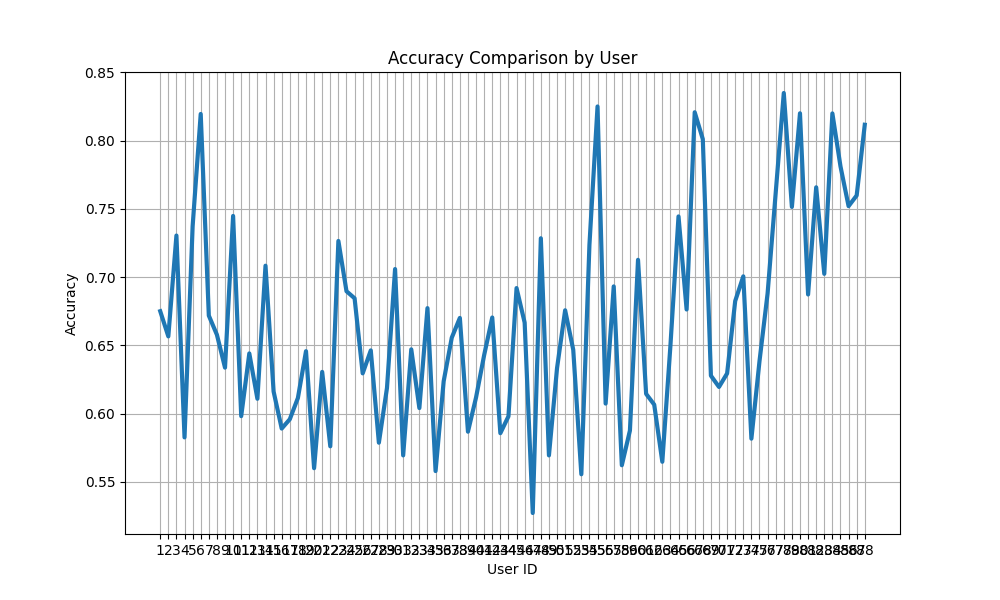
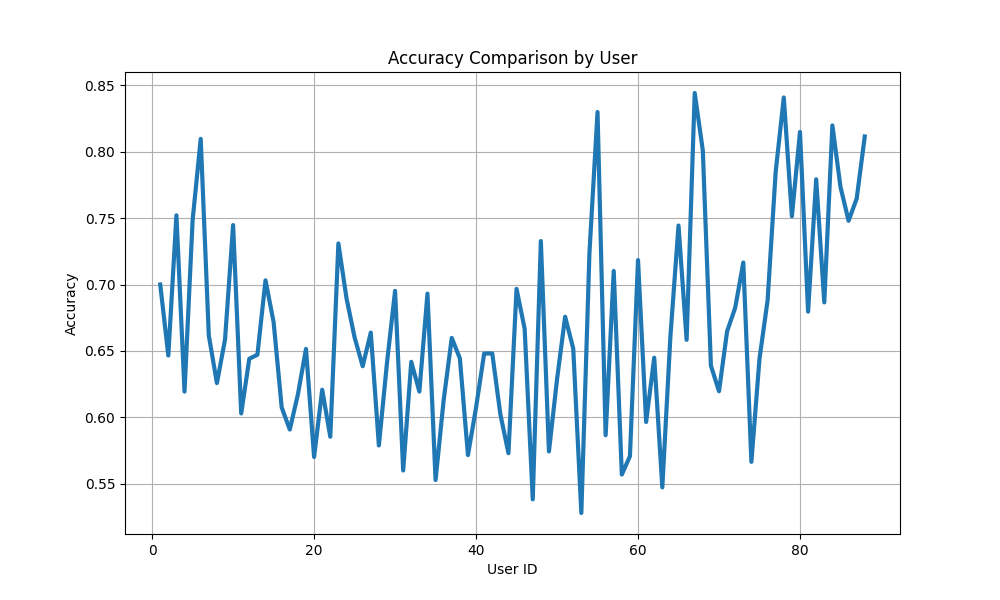
initial commit

diff --git a/plots.py b/plots.py
@@ -24,7 +24,6 @@ def plot_accuracy_comparison(results: Dict[int, Any], folder: str):
     plt.xlabel('User ID')
     plt.ylabel('Accuracy')
     plt.title('Accuracy Comparison by User')
-    plt.xticks(user_ids)
     plt.grid(True)
     plt.savefig(os.path.join(prepare_folder(folder), 'accuracy_comparison.png'))
     plt.close()
@@ -38,9 +37,9 @@ def plot_f_measure_distribution(results: Dict[int, Any], folder: str):
     plt.xlabel('User ID')
     plt.ylabel('F1-Score')
     plt.title('F1-Score Comparison by User')
-    plt.xticks(user_ids)
     plt.grid(True)
     plt.savefig(os.path.join(prepare_folder(folder), 'f1_score_comparison.png'))
+
 
 def plot_confusion_matrix_heatmaps(results: Dict[int, Any], folder: str):
     user_ids = get_user_ids(results)
